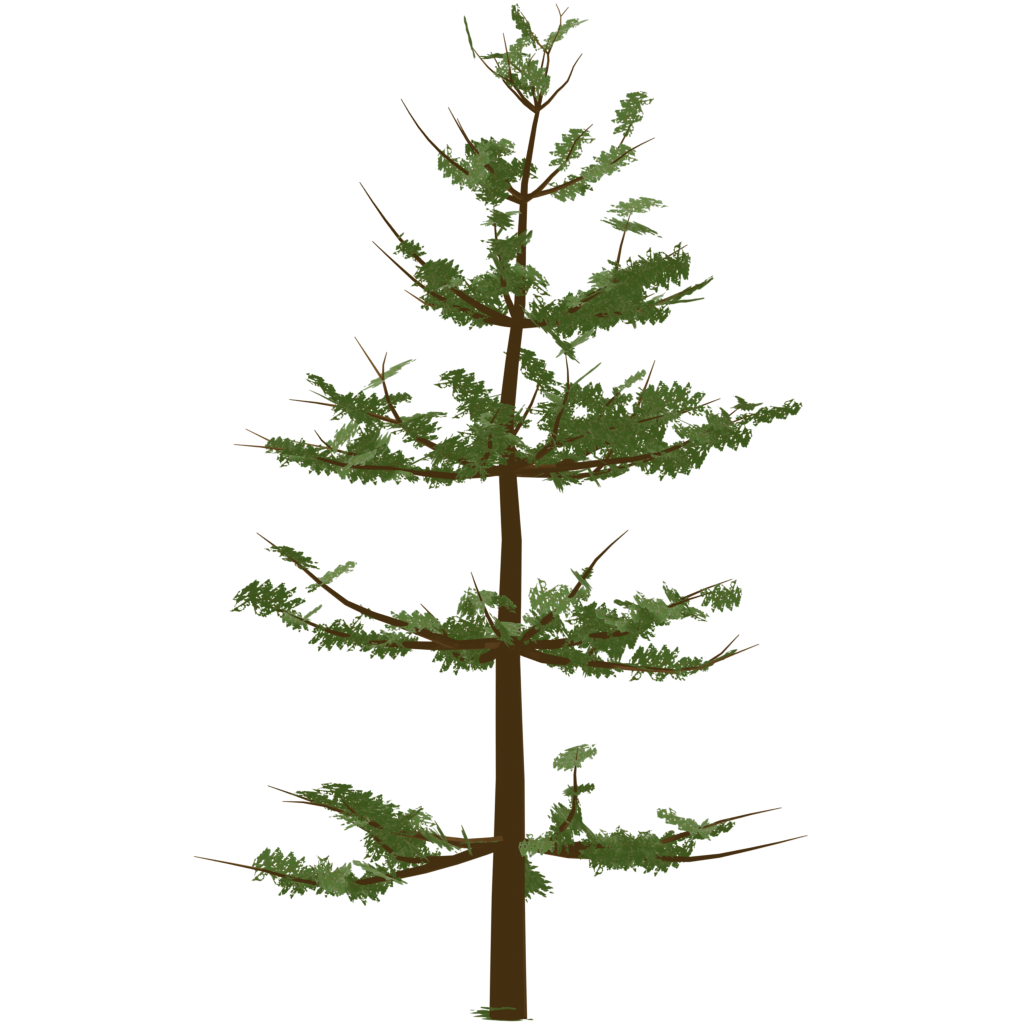
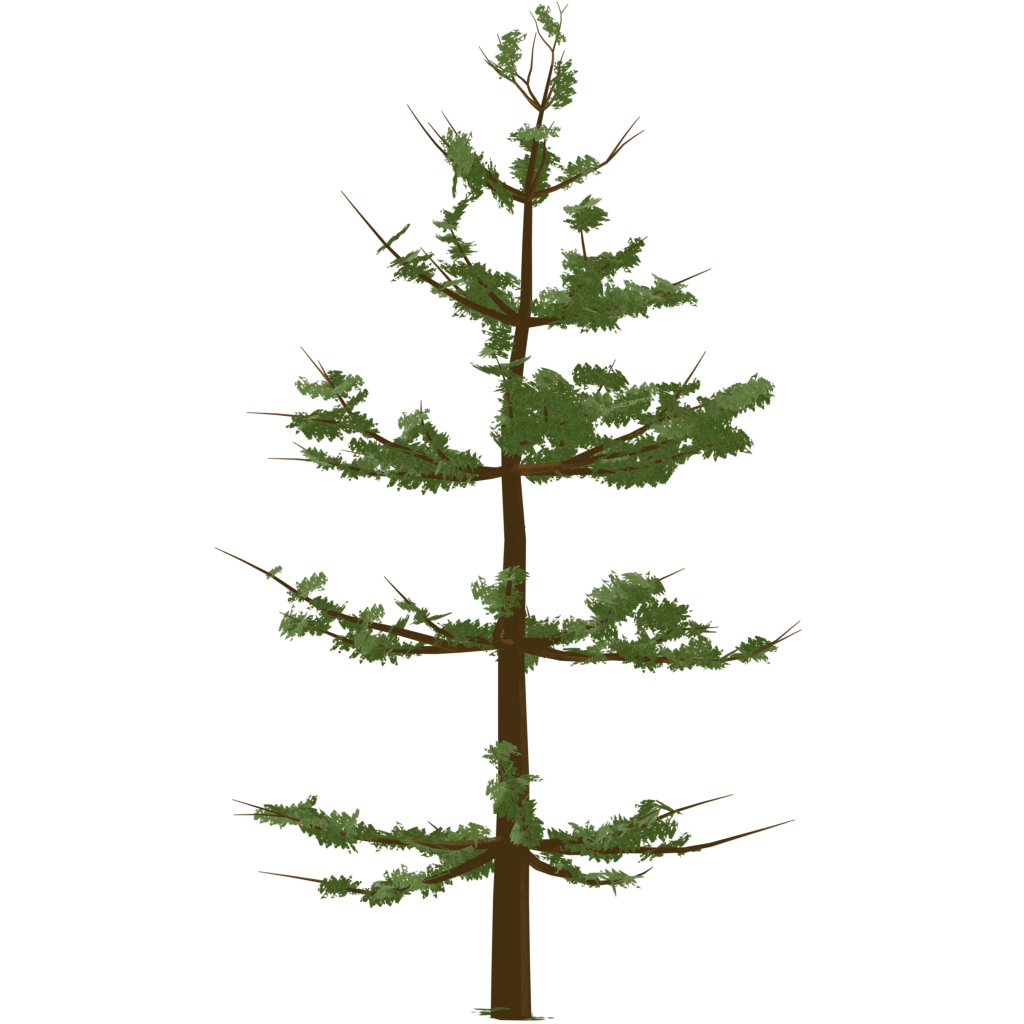
More pine impostors, grass fades, general graphics improvements

Changed region(s): [[0.2188, 0.0, 0.7812, 1.0]]

diff --git a/Scripts/Locations/GrassScatter.cs b/Scripts/Locations/GrassScatter.cs
@@ -56,6 +56,12 @@ namespace Locations
             mesh.Material = material;
             material.ParamsCullMode = SpatialMaterial.CullMode.Disabled;
             material.FlagsUnshaded = true;
+            if (FalloffAroundCamera)
+            {
+                material.DistanceFadeMaxDistance = 0;
+                material.DistanceFadeMinDistance = FalloffMaxDistance;
+                material.DistanceFadeMode = SpatialMaterial.DistanceFadeModeEnum.PixelDither;
+            }
             if (NormalMap == null) material.NormalEnabled = false;
             else
             {
@@ -119,6 +125,7 @@ namespace Locations
         {
             if (generateGrassThread == null || !generateGrassThread.IsAlive())
             {
+                if (generateGrassThread != null) generateGrassThread.WaitToFinish();
                 generateGrassThread = new Thread();
                 generateGrassThread.Start(this, "GenerateGrass");
             }

diff --git a/README.md b/README.md
@@ -14,20 +14,14 @@ ctrl+d to toggle debug mode, r to reset plane, space to launch plane, ctrl+shift
 
 Todo:
 - Physics
-    - Make common methods in AeroSurface for getting relative & local velocity, there is no point having code for this in every derived class
+        - Make common methods in AbstractSpatialFluidEffector for getting relative & local velocity, there is no point having code for this in every derived class
     - improve wing physics: allow importing some better format of curves
         - stall is mushy, not sharp
         - planes feel too draggy, EG in real life the T28 carries a lot more energy and is difficult to get down, this one just mushes in
     - make location altitude actually change air pressure (not very useful, but why not?)
-    - Add body lift+drag using dragcube + liftcube
-        - area is interpolated from bounding box
-        - lift (including induced drag) is generated perpendicular to surface using a coefficient interpolated from liftcube 
-        - drag (frontal drag) is parallel to flow and uses another interpolated coefficient
-        - both cubes are optional
-        - can be extended
-        - needs some way of toggling on off so things like landing gear can stop being draggy
-            - tie it to a control input? I'd rather be able to tie it to a servo
-            - need some way of expressing conditions without creating a turing-complete language
+    - needs some way of toggling on and off AeorObjects so things like landing gear can stop being draggy when retracted
+        - tie it to a control input? I'd rather be able to tie it to a servo
+        - need some way of expressing conditions without creating a turing-complete language
 - Input
     - make f2 toggle UI
     - Add a preview for all the inputs so we can check direction etc without flying (requires modifications to SimInput.Manager so it can run with a custom inputmap instead of that in SimSettings.Current)
@@ -49,6 +43,10 @@ Todo:
     - Create a bushplane about 1.1-1.3kg size
     - Mini 3d: increase control surface size in the model, make it fly more 3d
 - Graphics
+    - Somehow make grass not jump around when camera moves, only appear/disappear.
+        - Perhaps can use a system where we make a grid of points, wiggle them, then discard those which are outside of the radius.
+        - Would probably be a bit slow on really large patches but in that case we could use a chunk system internally to completely ignore points a certain distance away from camera
+        - Perhaps just a check for each row + col to see if it will be within distance at any point.
     - need to get it running on old hardware (target: Intel HD 3000 on low 720p)
         - problem: this IGPU will not be supported if we upgrade to godot 4.
     - Settings for stuff like shadows, AA, AO
